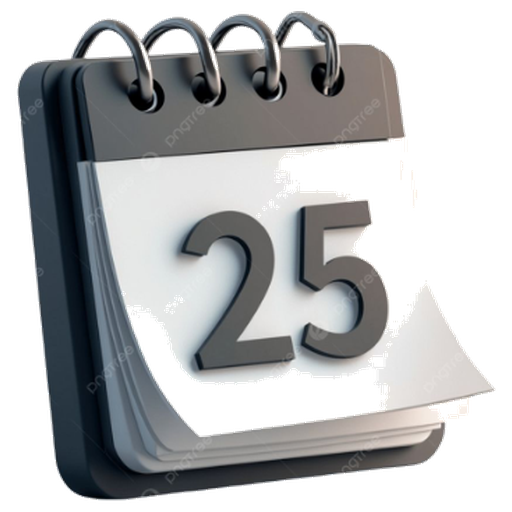
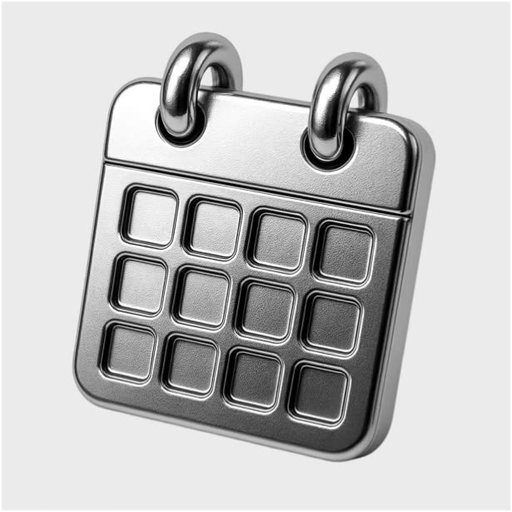
Icône : calendrier argenté, découpe précise à contour fermé
Traitement Pillow + scipy:
- Estimation de la couleur de fond depuis les 4 bords (median RGB).
- Masque des candidats fond : diff <= 10 par canal.
- Labellisation par composantes connexes ; seuls les blobs qui touchent
  un bord sont considérés vrai fond. Les creux internes (cases du
  calendrier proches de la couleur de fond) restent opaques → boucle
  fermée propre autour de l'objet.
- Fermeture morphologique 2 itérations pour lisser le contour.
- Anti-alias : blur alpha 0.7 puis seuil dur (< 12 -> 0, > 240 -> 255)
  pour garder de vrais pixels transparents aux coins (évite le halo).
- Prémultiplication : les pixels transparents deviennent blancs en RGB
  pour éviter le liseré gris au downscale.
- Regénération 32/48/64/128/180/192/256/512 px avec seuillage post-resize.

Cache-bust ?v=5 sur tous les <link rel='icon'> et l'avatar sidebar.

diff --git a/client/index.html b/client/index.html
@@ -9,11 +9,11 @@
   <link rel="preconnect" href="https://fonts.googleapis.com" />
   <link rel="preconnect" href="https://fonts.gstatic.com" crossorigin />
   <link href="https://fonts.googleapis.com/css2?family=Inter:wght@300;400;500;600;700&family=Inter+Tight:wght@300;400;500;600;700&display=swap" rel="stylesheet" />
-  <link rel="icon" type="image/png" sizes="32x32" href="/assets/icon-32.png?v=4" />
-  <link rel="icon" type="image/png" sizes="64x64" href="/assets/icon-64.png?v=4" />
-  <link rel="icon" type="image/png" sizes="128x128" href="/assets/icon-128.png?v=4" />
-  <link rel="icon" type="image/png" sizes="192x192" href="/assets/icon-192.png?v=4" />
-  <link rel="apple-touch-icon" href="/assets/icon-180.png?v=4" />
+  <link rel="icon" type="image/png" sizes="32x32" href="/assets/icon-32.png?v=5" />
+  <link rel="icon" type="image/png" sizes="64x64" href="/assets/icon-64.png?v=5" />
+  <link rel="icon" type="image/png" sizes="128x128" href="/assets/icon-128.png?v=5" />
+  <link rel="icon" type="image/png" sizes="192x192" href="/assets/icon-192.png?v=5" />
+  <link rel="apple-touch-icon" href="/assets/icon-180.png?v=5" />
 </head>
 <body>
   <div class="ambient"></div>
@@ -28,7 +28,7 @@
       </header>
 
       <div class="user-card">
-        <div class="user-avatar"><img src="/assets/icon-128.png?v=4" alt="" /></div>
+        <div class="user-avatar"><img src="/assets/icon-128.png?v=5" alt="" /></div>
         <div class="user-meta">
           <span class="user-name">Planning M2 BTI</span>
           <span class="user-mail" id="source-file" title="Fichier Excel synchronisé depuis AMU box">source : planning.xlsx</span>

diff --git a/client/comparateur.html b/client/comparateur.html
@@ -10,11 +10,11 @@
   <link rel="preconnect" href="https://fonts.googleapis.com" />
   <link rel="preconnect" href="https://fonts.gstatic.com" crossorigin />
   <link href="https://fonts.googleapis.com/css2?family=Inter:wght@300;400;500;600;700&family=Inter+Tight:wght@300;400;500;600;700&display=swap" rel="stylesheet" />
-  <link rel="icon" type="image/png" sizes="32x32" href="/assets/icon-32.png?v=4" />
-  <link rel="icon" type="image/png" sizes="64x64" href="/assets/icon-64.png?v=4" />
-  <link rel="icon" type="image/png" sizes="128x128" href="/assets/icon-128.png?v=4" />
-  <link rel="icon" type="image/png" sizes="192x192" href="/assets/icon-192.png?v=4" />
-  <link rel="apple-touch-icon" href="/assets/icon-180.png?v=4" />
+  <link rel="icon" type="image/png" sizes="32x32" href="/assets/icon-32.png?v=5" />
+  <link rel="icon" type="image/png" sizes="64x64" href="/assets/icon-64.png?v=5" />
+  <link rel="icon" type="image/png" sizes="128x128" href="/assets/icon-128.png?v=5" />
+  <link rel="icon" type="image/png" sizes="192x192" href="/assets/icon-192.png?v=5" />
+  <link rel="apple-touch-icon" href="/assets/icon-180.png?v=5" />
 </head>
 <body>
   <div class="ambient"></div>
@@ -26,7 +26,7 @@
       </header>
 
       <div class="user-card">
-        <div class="user-avatar"><img src="/assets/icon-128.png?v=4" alt="" /></div>
+        <div class="user-avatar"><img src="/assets/icon-128.png?v=5" alt="" /></div>
         <div class="user-meta">
           <span class="user-name">Comparateur</span>
           <span class="user-mail">Excel ↔ ADE</span>

diff --git a/client/admin/index.html b/client/admin/index.html
@@ -7,11 +7,11 @@
   <title>Enseignant · Planning M2 BTI</title>
   <link rel="stylesheet" href="/css/app.css" />
   <link rel="stylesheet" href="/constructeur/admin.css" />
-  <link rel="icon" type="image/png" sizes="32x32" href="/assets/icon-32.png?v=4" />
-  <link rel="icon" type="image/png" sizes="64x64" href="/assets/icon-64.png?v=4" />
-  <link rel="icon" type="image/png" sizes="128x128" href="/assets/icon-128.png?v=4" />
-  <link rel="icon" type="image/png" sizes="192x192" href="/assets/icon-192.png?v=4" />
-  <link rel="apple-touch-icon" href="/assets/icon-180.png?v=4" />
+  <link rel="icon" type="image/png" sizes="32x32" href="/assets/icon-32.png?v=5" />
+  <link rel="icon" type="image/png" sizes="64x64" href="/assets/icon-64.png?v=5" />
+  <link rel="icon" type="image/png" sizes="128x128" href="/assets/icon-128.png?v=5" />
+  <link rel="icon" type="image/png" sizes="192x192" href="/assets/icon-192.png?v=5" />
+  <link rel="apple-touch-icon" href="/assets/icon-180.png?v=5" />
 </head>
 <body>
   <div id="login-view" class="login-view">
